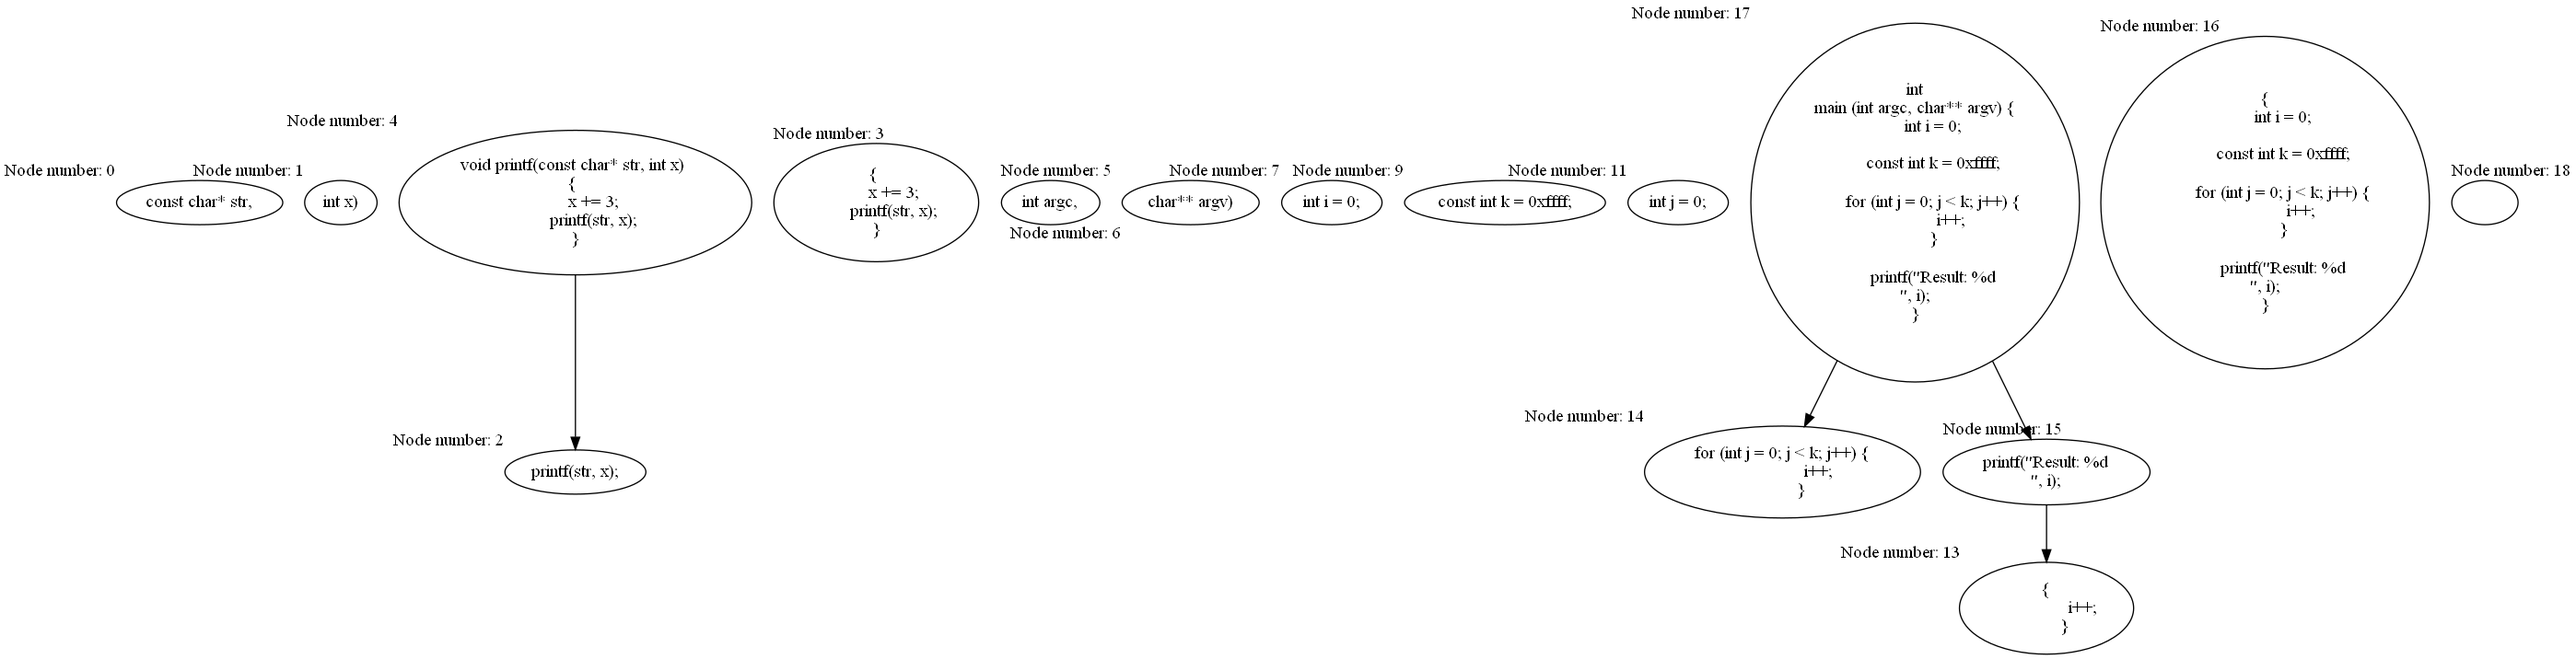
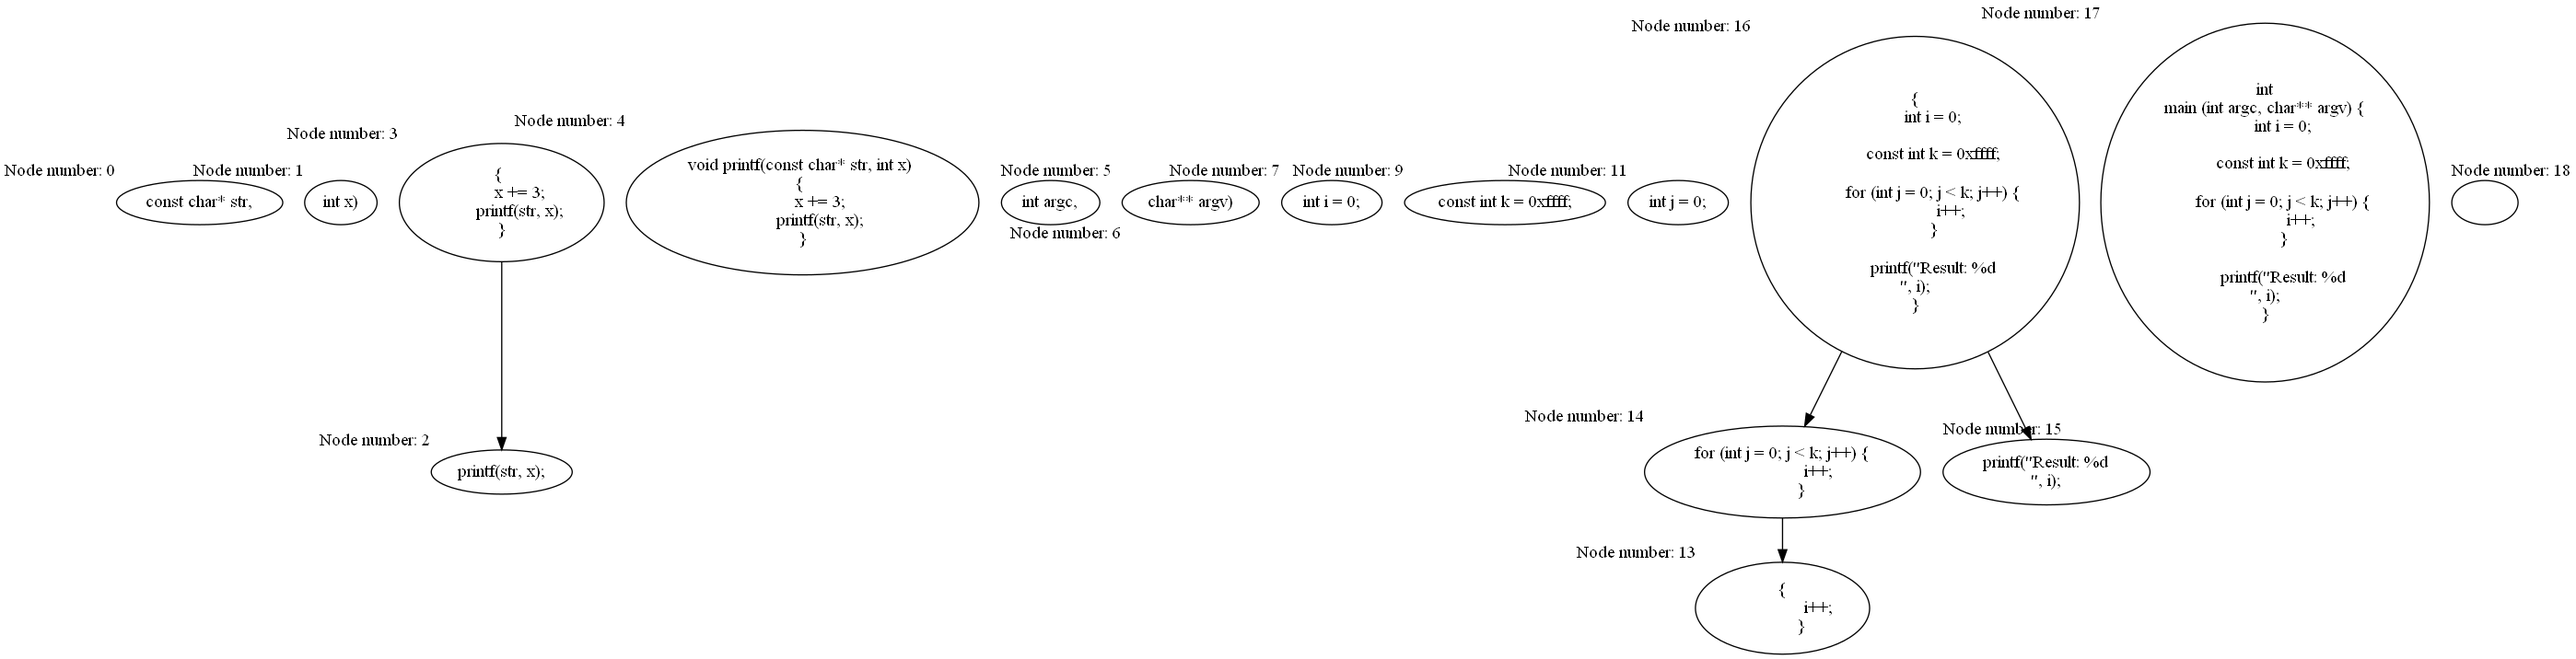
Fixed a bug concerning children of statements, added debug logs for skipped nodes

diff --git a/autopie/AutoPIE/Visitors.h b/autopie/AutoPIE/Visitors.h
@@ -155,9 +155,7 @@ class MappingASTVisitor : public clang::RecursiveASTVisitor<MappingASTVisitor>
 		if (snippetSet_.find(snippet) != snippetSet_.end())
 		{
 			// This node's code has already been processed.
-			skippedNodes_->insert(std::pair<int, bool>(codeUnitsCount, true));
-			codeUnitsCount++;
-			
+			skippedNodes_->insert(std::pair<int, bool>(codeUnitsCount, true));			
 			return;
 		}
 
@@ -167,15 +165,12 @@ class MappingASTVisitor : public clang::RecursiveASTVisitor<MappingASTVisitor>
 		{
 			snippetSet_[snippet] = true;
 			graph.InsertCodeSnippetForDebugging(codeUnitsCount, snippet);
-			
 		}
 		else
 		{
 			skippedNodes_->insert(std::pair<int, bool>(codeUnitsCount, true));
 			llvm::outs() << "Could not insert (" << astId << ", " << myId << ") to the map.\n";
 		}
-		
-		codeUnitsCount++;
 	}
 
 public:
@@ -202,6 +197,11 @@ public:
 		{
 			llvm::outs() << "Node " << codeUnitsCount << ": Type " << decl->getDeclKindName() << "\n";
 			InsertMapping(decl->getID(), codeUnitsCount, RangeToString(astContext_, decl->getSourceRange()));
+			codeUnitsCount++;
+		}
+		else
+		{
+			llvm::outs() << "DEBUG: Attempted to visit node " << codeUnitsCount << " (already in the mapping).\n";
 		}
 		
 		return true;
@@ -212,6 +212,11 @@ public:
 		if (nodeMapping_->find(expr->getID(astContext_)) == nodeMapping_->end())
 		{
 			InsertMapping(expr->getID(astContext_), codeUnitsCount, RangeToString(astContext_, expr->getSourceRange()));
+			codeUnitsCount++;
+		}
+		else
+		{
+			llvm::outs() << "DEBUG: Attempted to visit node " << codeUnitsCount << " (already in the mapping).\n";
 		}
 				
 		return true;
@@ -237,7 +242,13 @@ public:
 				{
 					graph.InsertDependency(codeUnitsCount, nodeMapping_->at(it->getID(astContext_)));
 				}
-			}			
+			}
+			
+			codeUnitsCount++;
+		}
+		else
+		{
+			llvm::outs() << "DEBUG: Attempted to visit node " << codeUnitsCount << " (already in the mapping).\n";
 		}
 		
 		return true;
